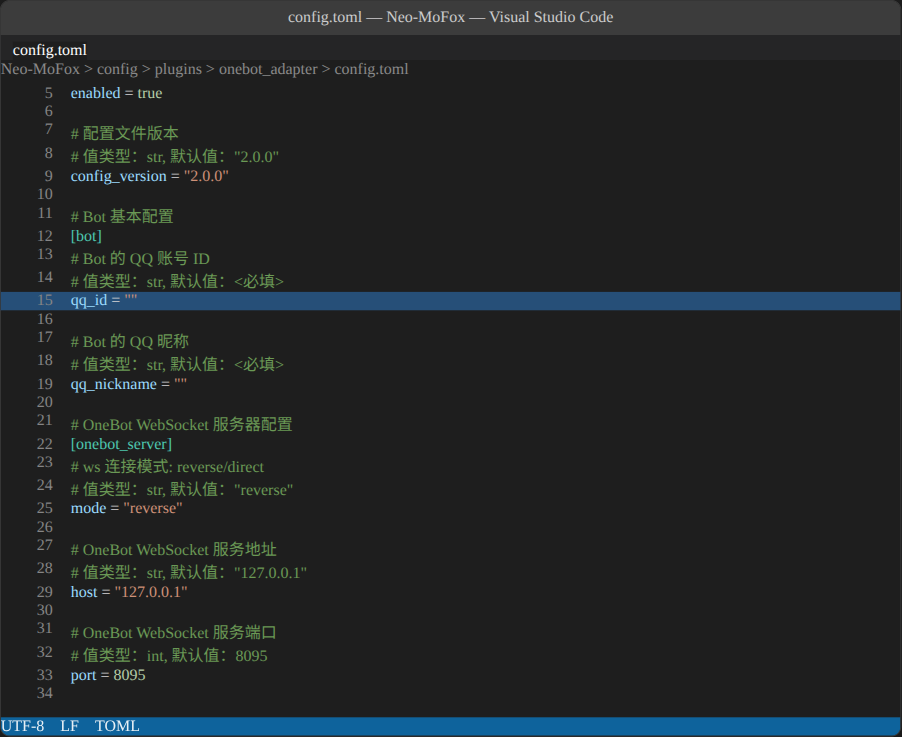
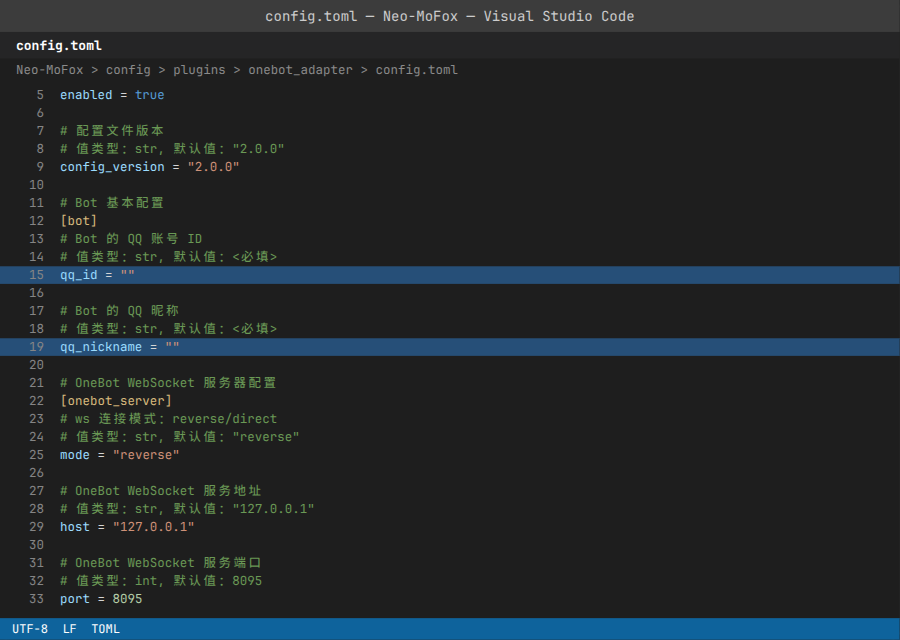
Refactor code structure for improved readability and maintainability

Changed region(s): [[0.0, 0.0625, 1.0, 1.0], [0.28, 0.0, 0.7156, 0.0312], [0.9956, 0.0, 1.0, 0.0312]]

diff --git a/screenshot-kit/render.py b/screenshot-kit/render.py
@@ -6,6 +6,8 @@
                输入 capture.py 产出的整屏快照 + 逐格颜色，颜色按「显示单元格」精确还原。
   log 模式     render.py log <日志.txt> <out.html> [标题] [--rows 起:止]
                纯文本日志直接渲染；日志里自带 ANSI 颜色码会自动转成对应颜色。
+  editor 模式  render.py editor <配置.toml> <out.html> [标题] [--start-line N] [--highlight 15,19]
+               TOML 配置渲染成 VS Code 风格窗口（行号、语法高亮、可标注面包屑和高亮行）。
 
 产出是一个深色圆角的「终端窗口」HTML。用浏览器打开看看效果，
 然后按 README 的方法用 playwright 对 body > div 做元素截图，即得最终 PNG。
@@ -217,17 +219,25 @@ def toml_line_html(line: str) -> str:
     return "".join(out)
 
 
-def render_editor(path: str) -> str:
+def render_editor(path: str, start_line: int = 1, highlight: frozenset[int] = frozenset()) -> str:
+    """start_line：首行显示的行号（模拟编辑器滚到文件中部时行号不从 1 开始）；
+    highlight：要高亮的行号集合（display 行号），画成 VS Code 的选中蓝条。"""
     with open(path, encoding="utf-8") as f:
         lines = f.read().rstrip("\n").split("\n")
     rows = []
-    for no, line in enumerate(lines, 1):
-        rows.append(f'<div class="row"><div class="gln">{no}</div>'
+    for no, line in enumerate(lines, start_line):
+        hl = " hl" if no in highlight else ""
+        rows.append(f'<div class="row{hl}"><div class="gln">{no}</div>'
                     f'<div class="code">{toml_line_html(line)}</div></div>')
     return "\n".join(rows)
 
 
-def editor_frame(title: str, tab: str, rows: str) -> str:
+def editor_frame(title: str, tab: str, rows: str, crumbs: str | None = None,
+                 min_width: int | None = None) -> str:
+    """VS Code 风格外框。crumbs：面包屑路径（None 则不显示）；
+    min_width：编辑器最小宽度（像素），用于让窗口比代码宽、接近真实编辑器观感。"""
+    style_extra = f"    min-width: {min_width}px;\n" if min_width else ""
+    crumbs_html = f'  <div class="crumbs">{html.escape(crumbs)}</div>\n' if crumbs else ""
     return f"""<!DOCTYPE html>
 <html lang="zh-CN">
 <head>
@@ -240,46 +250,58 @@ def editor_frame(title: str, tab: str, rows: str) -> str:
     border-radius: 10px;
     box-shadow: 0 0 0 1px #2a2a2a;
     font-family: {MONO};
-    font-size: 14px;
-  }}
+    width: fit-content;
+{style_extra}  }}
   .titlebar {{
-    height: 38px;
+    height: 32px;
     display: flex;
     align-items: center;
     justify-content: center;
-    background: #323233;
+    background: #3c3c3c;
     color: #cccccc;
-    font-size: 13px;
+    font-size: 14px;
     user-select: none;
   }}
-  .tabs {{ display: flex; background: #252526; font-size: 13px; user-select: none; }}
-  .tab {{
-    padding: 8px 18px;
-    color: #969696;
-    background: #2d2d2d;
-    border-top: 1px solid transparent;
+  .filetab {{
+    height: 26px;
+    display: flex;
+    align-items: center;
+    background: #252526;
+    color: #ffffff;
+    font-weight: 700;
+    font-size: 13px;
+    padding: 0 16px;
+    user-select: none;
   }}
-  .tab.active {{ background: #1e1e1e; color: #ffffff; border-top-color: #0078d4; }}
-  .codearea {{ padding: 8px 0 14px; }}
-  .row {{ display: flex; line-height: 1.6; min-height: 1.6em; }}
+  .crumbs {{
+    height: 22px;
+    display: flex;
+    align-items: center;
+    color: #8a8a8a;
+    font-size: 12.5px;
+    padding: 0 16px;
+    user-select: none;
+  }}
+  .codearea {{ padding: 6px 0 10px; }}
+  .row {{ display: flex; line-height: 18px; min-height: 18px; font-size: 12.5px; }}
+  .row.hl {{ background: #264f78; }}
   .gln {{
     flex: none;
     width: 44px;
     text-align: right;
-    padding-right: 24px;
+    padding-right: 16px;
     color: #858585;
     user-select: none;
   }}
   .code {{ white-space: pre; color: {EDITOR_FG}; padding-right: 24px; }}
   .statusbar {{
-    height: 26px;
+    height: 22px;
     display: flex;
     align-items: center;
-    justify-content: space-between;
-    background: #007acc;
+    background: #0e639c;
     color: #ffffff;
     font-size: 12px;
-    padding: 0 14px;
+    padding: 0 12px;
     user-select: none;
   }}
 </style>
@@ -287,11 +309,11 @@ def editor_frame(title: str, tab: str, rows: str) -> str:
 <body>
 <div class="editor">
   <div class="titlebar">{html.escape(title)}</div>
-  <div class="tabs"><div class="tab active">{html.escape(tab)}</div></div>
-  <div class="codearea">
+  <div class="filetab">{html.escape(tab)}</div>
+{crumbs_html}  <div class="codearea">
 {rows}
   </div>
-  <div class="statusbar"><span>Neo-MoFox</span><span>UTF-8&nbsp;&nbsp;LF&nbsp;&nbsp;TOML</span></div>
+  <div class="statusbar"><span>UTF-8&nbsp;&nbsp;LF&nbsp;&nbsp;TOML</span></div>
 </div>
 </body>
 </html>
@@ -363,6 +385,14 @@ def main():
     p3.add_argument("config_file")
     p3.add_argument("out_html")
     p3.add_argument("title", nargs="?", default=None, help="窗口标题（默认「文件名 — Neo-MoFox」）")
+    p3.add_argument("--start-line", type=int, default=1, metavar="N",
+                    help="首行显示的行号（模拟滚动到文件中部，默认 1）")
+    p3.add_argument("--highlight", default=None, metavar="行号,行号",
+                    help="要高亮（选中蓝条）的行号列表，逗号分隔，如 15,19；行号按 --start-line 后的显示行号算")
+    p3.add_argument("--breadcrumb", default=None, metavar="路径",
+                    help="面包屑路径（如 Neo-MoFox > config > core.toml），不传则不显示")
+    p3.add_argument("--width", type=int, default=None, metavar="PX",
+                    help="编辑器最小宽度（像素），让窗口比代码宽、接近真实编辑器观感")
 
     args = ap.parse_args()
     if args.mode == "screen":
@@ -379,7 +409,11 @@ def main():
     else:
         name = os.path.basename(args.config_file)
         title = args.title or f"{name} — Neo-MoFox"
-        page = editor_frame(title, name, render_editor(args.config_file))
+        highlight = frozenset()
+        if args.highlight:
+            highlight = frozenset(int(x) for x in re.split(r"[,\s]+", args.highlight.strip()) if x)
+        rows = render_editor(args.config_file, start_line=args.start_line, highlight=highlight)
+        page = editor_frame(title, name, rows, crumbs=args.breadcrumb, min_width=args.width)
     with open(args.out_html, "w", encoding="utf-8") as f:
         f.write(page)
     print(f"[render] 已写出 {args.out_html}")

diff --git a/docs/guides/manual.md b/docs/guides/manual.md
@@ -254,10 +254,12 @@ ws://127.0.0.1:8095
 
 首次启动后，程序会在 `config/plugins/onebot_adapter/config.toml` 生成适配器配置。用文本编辑器打开它，找到 `[bot]`，下面高亮的两行都要填写：
 
-```toml {2,3}
+![图片：文本编辑器打开 onebot_adapter 插件配置文件，qq_id 与 qq_nickname 两行已高亮](/guide/manual/onebot-config-editor.png)
+
+```toml
 [bot]
 qq_id = "123456789"        # 必填：机器人的 QQ 号（就是协议端登录的那个号）
-qq_nickname = "小狐狸"      # 必填：机器人的昵称，不能留空
+qq_nickname = "小狐狸"      # 必填：机器人 QQ 的昵称，不能留空
 
 [onebot_server]
 mode = "reverse"           # 连接模式，默认反向 WebSocket，不用改
@@ -266,7 +268,7 @@ port = 8095                # 监听端口，必须和协议端里填的一致
 access_token = ""          # 可选：访问令牌，两边留空，或两边填同一个值
 ```
 
-**`qq_id` 和 `qq_nickname` 都是必填项，不能留空。** `qq_id` 填协议端登录的机器人 QQ 号，`qq_nickname` 填你希望 Bot 使用的昵称；把示例值换成自己的信息后保存。
+**`qq_id` 和 `qq_nickname` 都是必填项，不能留空。** `qq_id` 填协议端登录的机器人 QQ 号，`qq_nickname` 填你希望机器人 QQ 的昵称；把示例值换成自己的信息后保存。
 
 ::: warning 启动顺序有讲究
 建议**先启动 Neo-MoFox，再启动协议端**。Neo-MoFox 的启动日志里出现「适配器启动完成」，说明它这边已经开始监听 8095；协议端连上后，它的管理界面/日志会显示反向 WS 已连接。连不上？看文末[常见问题](#常见问题)里「QQ 连不上」一条。
@@ -602,6 +604,8 @@ ws://127.0.0.1:8095
 ### 告诉 Neo-MoFox 它的 QQ 号
 
 首次启动后，程序会在 `config/plugins/onebot_adapter/config.toml` 生成适配器配置。用文本编辑器打开它，找到 `[bot]`，下面高亮的两行都要填写：
+
+![图片：文本编辑器打开 onebot_adapter 插件配置文件，qq_id 与 qq_nickname 两行已高亮](/guide/manual/onebot-config-editor.png)
 
 ```toml {2,3}
 [bot]

diff --git a/screenshot-kit/README.md b/screenshot-kit/README.md
@@ -97,12 +97,20 @@ python3 render.py screen captures/success.screen.txt captures/success.colors.jso
 # log 模式：纯日志文件 → HTML（自带 ANSI 颜色码的日志会自动上色）
 python3 render.py log logs/mofox_2026-01-01.log mofox-log.html "logs/mofox_2026-01-01.log"
 
-# editor 模式：TOML 配置 → VS Code 风格 HTML（标签页、行号、语法高亮）
+# editor 模式：TOML 配置 → VS Code 风格 HTML（文件名标签、面包屑、行号、语法高亮）
 python3 render.py editor config/model.toml model-editor.html "model.toml — Neo-MoFox"
+
+# 也可以模拟「滚到文件中部」的观感：行号从 5 起算、标注面包屑、
+# 给指定行画 VS Code 选中蓝条（行号按 --start-line 之后的显示行号算）、加宽窗口
+python3 render.py editor /tmp/kit-run/config.toml onebot-editor.html \
+    "config.toml — Neo-MoFox — Visual Studio Code" \
+    --start-line 5 --highlight 15,19 \
+    --breadcrumb "Neo-MoFox > config > plugins > onebot_adapter > config.toml" --width 900
 ```
 
 editor 模式的限制：多行字符串（`"""…"""`）不参与高亮，内容按普通文本渲染——截图足够用；
 标题默认是「文件名 — Neo-MoFox」，第三个位置参数可以改。
+注意高亮行号是**显示行号**（受 `--start-line` 影响），想看清源文件第几行就别和 `--start-line` 混用。
 
 ## 第三步：HTML → PNG
 
@@ -155,5 +163,6 @@ with sync_playwright() as p:
 ## 成品对照
 
 `docs/public/guide/manual/` 下的 `first-start-agreement.png`、`first-start-success.png`
-是 screen 模式产的；`model-toml-editor.png` 等配置文件截图是 editor 模式产的；
+是 screen 模式产的；`model-toml-editor.png`、`onebot-config-editor.png`（`qq_id`、
+`qq_nickname` 两行带选中蓝条）等配置文件截图是 editor 模式产的；
 其余页面（`docker.md`、`faq.md` 等）引用的日志截图用 log 模式即可。

diff --git a/docs/guides/webui.md b/docs/guides/webui.md
@@ -35,6 +35,8 @@
 2. 在 **WebUI / HTTP 路由访问密钥** 一栏设置一个至少 8 位的密钥（这就是之后的登录密码）。
 3. 继续安装，启动器会自动从 GitHub Release 下载 WebUI 插件包放进 `plugins/` 目录。
 
+![图片：启动器安装向导的可选组件区块，勾选「安装 WebUI」并设置 WebUI / HTTP 路由访问密钥](/guide/launcher/install-config-webui.png)
+
 装完直接去「[打开 WebUI 并登录](#打开-webui-并登录)」。
 
 ### 方式二：Release 下载 .mfp 放进 plugins/
@@ -42,9 +44,11 @@
 不使用启动器的用户，最简单的方法是下载现成的插件包：
 
 1. 打开 WebUI 的 GitHub Releases 页面：`https://github.com/ikun-1145141/Neo-MoFox-Webui/releases`。
-2. 在最新版本中找到以 **`.mfp`** 结尾的插件包并下载（`.mfp` 是 Neo-MoFox 的插件包格式）。
+2. 下载**排在列表最上面**的那个版本——通常是个带 **Pre-release** 标签的 `-dev` 预发布版，别犹豫：WebUI 的正式版往往很久才发一次，最新的修复都在预发布版里。点开它的 **Assets** 附件区，找到以 **`.mfp`** 结尾的插件包并下载（`.mfp` 是 Neo-MoFox 的插件包格式）。
 3. 把 `.mfp` 文件放进 Neo-MoFox 的 `plugins/` 目录，**保持文件名不变**（插件加载器靠文件名识别插件）。
 4. 重启 Neo-MoFox。
+
+![图片：WebUI 的 GitHub Releases 页面，排在最前面的是带 Pre-release 标签的 -dev 版本，展开它的 Assets 附件区即可下载 .mfp 插件包](/guide/webui/download-releases.png)
 
 ::: details 想改 WebUI 界面代码？
 那需要走完整开发环境部署：克隆整个仓库、安装 Node.js、`npm install` 后用 `npm run dev` 启动前端开发服务器。这属于开发者玩法，普通用户用不到，详见 WebUI 仓库的 INSTALL.md。
